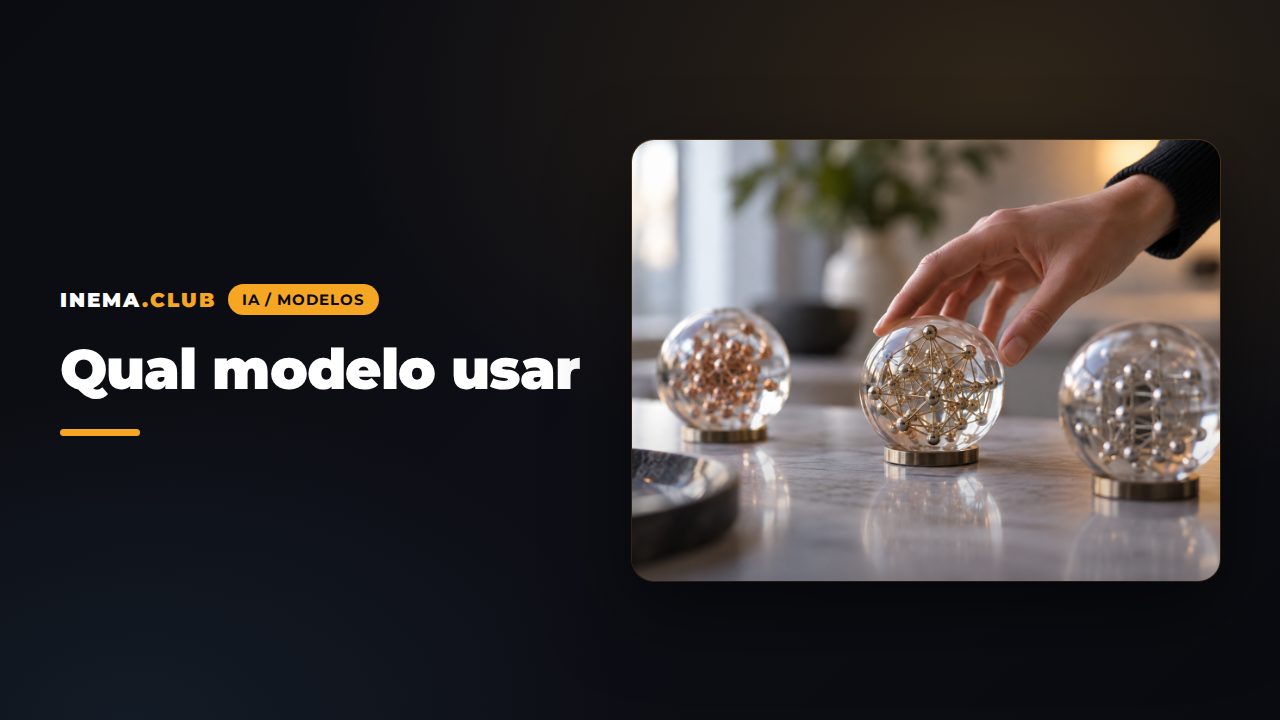
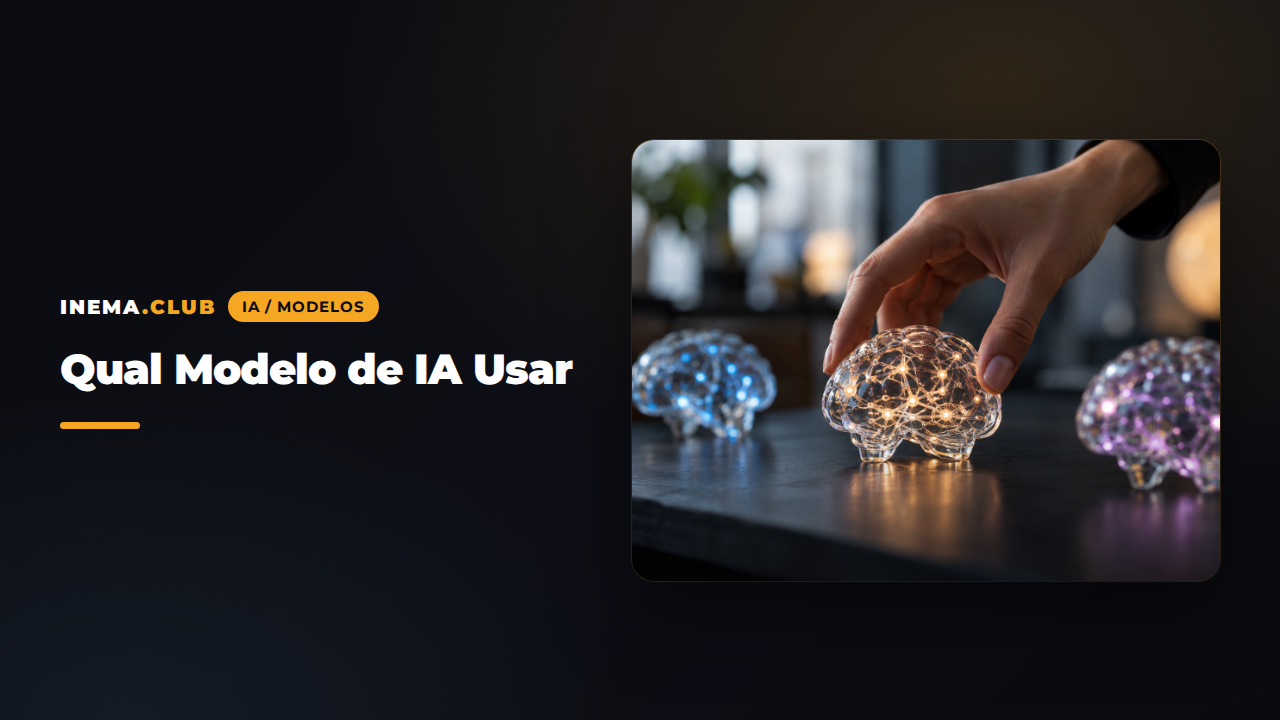
título: Qual Modelo de IA Usar (guia PT/EN/ES, README e capa)

Changed region(s): [[0.0312, 0.1833, 0.9688, 0.825], [0.0312, 0.3972, 0.3125, 0.4583], [0.0312, 0.5806, 0.125, 0.6111]]

diff --git a/guia/es/index.html b/guia/es/index.html
@@ -3,7 +3,7 @@
 <head>
 <meta charset="utf-8">
 <meta name="viewport" content="width=device-width, initial-scale=1">
-<title>modelos — qué modelo de IA usar en cada tarea</title>
+<title>Qué Modelo de IA Usar — el modelo correcto para cada tarea</title>
 <meta name="description" content="Guía directa para elegir entre Claude Opus 5.5, GPT-6 Astra, Sol y Luna: modelos explicados de forma simple, stack por tarea, reglas, prompts y batería de pruebas.">
 <link rel="preconnect" href="https://fonts.googleapis.com">
 <link rel="preconnect" href="https://fonts.gstatic.com" crossorigin>
@@ -122,7 +122,7 @@
 <body>
 
 <nav><div class="wrap">
-  <a class="brand" href="../es/"><span class="emoji">🧭</span> modelos</a>
+  <a class="brand" href="../es/"><span class="emoji">🧭</span> Qué Modelo de IA Usar</a>
   <span class="sep">|</span>
   <span class="clubpro">
     <a class="inema" href="https://inema.club" target="_blank" rel="noopener">INEMA.CLUB</a>
@@ -222,7 +222,7 @@ avaliacao/bateria.md  <span class="c"># 8 casos reales, nota 0–3, cuota gastad
 <footer>
   <div class="wrap">
     <div class="pill">Markdown</div><div class="pill">YAML</div><div class="pill">Claude Code</div><div class="pill">Codex</div>
-    <p style="margin-top:18px">modelos · guía práctica de modelos de IA ·
+    <p style="margin-top:18px">Qué Modelo de IA Usar · guía práctica de modelos de IA ·
       <a href="https://github.com/inematds/modelos">inematds/modelos</a> · <a href="../">Português</a> · <a href="../en/">English</a> ·
       <a href="https://inema.club">INEMA.CLUB</a></p>
   </div>

diff --git a/guia/index.html b/guia/index.html
@@ -3,7 +3,7 @@
 <head>
 <meta charset="utf-8">
 <meta name="viewport" content="width=device-width, initial-scale=1">
-<title>modelos — qual modelo de IA usar em cada tarefa</title>
+<title>Qual Modelo de IA Usar — o modelo certo para cada tarefa</title>
 <meta name="description" content="Guia direto para escolher entre Claude Opus 5.5, GPT-6 Astra, Sol e Luna: modelos explicados de forma simples, pilha por tarefa, regras, prompts e bateria de teste.">
 <link rel="preconnect" href="https://fonts.googleapis.com">
 <link rel="preconnect" href="https://fonts.gstatic.com" crossorigin>
@@ -122,7 +122,7 @@
 <body>
 
 <nav><div class="wrap">
-  <a class="brand" href=""><span class="emoji">🧭</span> modelos</a>
+  <a class="brand" href=""><span class="emoji">🧭</span> Qual Modelo de IA Usar</a>
   <span class="sep">|</span>
   <span class="clubpro">
     <a class="inema" href="https://inema.club" target="_blank" rel="noopener">INEMA.CLUB</a>
@@ -222,7 +222,7 @@ avaliacao/bateria.md  <span class="c"># 8 casos reais, nota 0–3, cota gasta</s
 <footer>
   <div class="wrap">
     <div class="pill">Markdown</div><div class="pill">YAML</div><div class="pill">Claude Code</div><div class="pill">Codex</div>
-    <p style="margin-top:18px">modelos · guia prático de modelos de IA ·
+    <p style="margin-top:18px">Qual Modelo de IA Usar · guia prático de modelos de IA ·
       <a href="https://github.com/inematds/modelos">inematds/modelos</a> · <a href="en/">English</a> · <a href="es/">Español</a> ·
       <a href="https://inema.club">INEMA.CLUB</a></p>
   </div>

diff --git a/guia/en/index.html b/guia/en/index.html
@@ -3,7 +3,7 @@
 <head>
 <meta charset="utf-8">
 <meta name="viewport" content="width=device-width, initial-scale=1">
-<title>modelos — which AI model to use for each task</title>
+<title>Which AI Model to Use — the right model for each task</title>
 <meta name="description" content="A direct guide to choosing among Claude Opus 5.5, GPT-6 Astra, Sol and Luna: models explained simply, stack per task, rules, prompts and a test battery.">
 <link rel="preconnect" href="https://fonts.googleapis.com">
 <link rel="preconnect" href="https://fonts.gstatic.com" crossorigin>
@@ -122,7 +122,7 @@
 <body>
 
 <nav><div class="wrap">
-  <a class="brand" href="../en/"><span class="emoji">🧭</span> modelos</a>
+  <a class="brand" href="../en/"><span class="emoji">🧭</span> Which AI Model to Use</a>
   <span class="sep">|</span>
   <span class="clubpro">
     <a class="inema" href="https://inema.club" target="_blank" rel="noopener">INEMA.CLUB</a>
@@ -222,7 +222,7 @@ avaliacao/bateria.md  <span class="c"># 8 real cases, 0–3 score, quota used</s
 <footer>
   <div class="wrap">
     <div class="pill">Markdown</div><div class="pill">YAML</div><div class="pill">Claude Code</div><div class="pill">Codex</div>
-    <p style="margin-top:18px">modelos · practical guide to AI models ·
+    <p style="margin-top:18px">Which AI Model to Use · practical guide to AI models ·
       <a href="https://github.com/inematds/modelos">inematds/modelos</a> · <a href="../">Português</a> · <a href="../es/">Español</a> ·
       <a href="https://inema.club">INEMA.CLUB</a></p>
   </div>

diff --git a/guia/es/modelos/index.html b/guia/es/modelos/index.html
@@ -122,7 +122,7 @@
 <body>
 
 <nav><div class="wrap">
-  <a class="brand" href="../../es/"><span class="emoji">🧭</span> modelos</a>
+  <a class="brand" href="../../es/"><span class="emoji">🧭</span> Qué Modelo de IA Usar</a>
   <span class="sep">|</span>
   <span class="clubpro">
     <a class="inema" href="https://inema.club" target="_blank" rel="noopener">INEMA.CLUB</a>
@@ -230,7 +230,7 @@
 <footer>
   <div class="wrap">
     <div class="pill">Markdown</div><div class="pill">YAML</div><div class="pill">Claude Code</div><div class="pill">Codex</div>
-    <p style="margin-top:18px">modelos · guía práctica de modelos de IA ·
+    <p style="margin-top:18px">Qué Modelo de IA Usar · guía práctica de modelos de IA ·
       <a href="https://github.com/inematds/modelos">inematds/modelos</a> · <a href="../../">Português</a> · <a href="../../en/">English</a> ·
       <a href="https://inema.club">INEMA.CLUB</a></p>
   </div>

diff --git a/guia/en/modelos/index.html b/guia/en/modelos/index.html
@@ -122,7 +122,7 @@
 <body>
 
 <nav><div class="wrap">
-  <a class="brand" href="../../en/"><span class="emoji">🧭</span> modelos</a>
+  <a class="brand" href="../../en/"><span class="emoji">🧭</span> Which AI Model to Use</a>
   <span class="sep">|</span>
   <span class="clubpro">
     <a class="inema" href="https://inema.club" target="_blank" rel="noopener">INEMA.CLUB</a>
@@ -230,7 +230,7 @@
 <footer>
   <div class="wrap">
     <div class="pill">Markdown</div><div class="pill">YAML</div><div class="pill">Claude Code</div><div class="pill">Codex</div>
-    <p style="margin-top:18px">modelos · practical guide to AI models ·
+    <p style="margin-top:18px">Which AI Model to Use · practical guide to AI models ·
       <a href="https://github.com/inematds/modelos">inematds/modelos</a> · <a href="../../">Português</a> · <a href="../../es/">Español</a> ·
       <a href="https://inema.club">INEMA.CLUB</a></p>
   </div>

diff --git a/guia/modelos/index.html b/guia/modelos/index.html
@@ -122,7 +122,7 @@
 <body>
 
 <nav><div class="wrap">
-  <a class="brand" href="../"><span class="emoji">🧭</span> modelos</a>
+  <a class="brand" href="../"><span class="emoji">🧭</span> Qual Modelo de IA Usar</a>
   <span class="sep">|</span>
   <span class="clubpro">
     <a class="inema" href="https://inema.club" target="_blank" rel="noopener">INEMA.CLUB</a>
@@ -230,7 +230,7 @@
 <footer>
   <div class="wrap">
     <div class="pill">Markdown</div><div class="pill">YAML</div><div class="pill">Claude Code</div><div class="pill">Codex</div>
-    <p style="margin-top:18px">modelos · guia prático de modelos de IA ·
+    <p style="margin-top:18px">Qual Modelo de IA Usar · guia prático de modelos de IA ·
       <a href="https://github.com/inematds/modelos">inematds/modelos</a> · <a href="../en/">English</a> · <a href="../es/">Español</a> ·
       <a href="https://inema.club">INEMA.CLUB</a></p>
   </div>

diff --git a/guia/_src/build.py b/guia/_src/build.py
@@ -13,6 +13,7 @@ REPO = "https://github.com/inematds/modelos"
 BASE = "https://inematds.github.io/modelos/guia/"
 LANGS = ["pt", "en", "es"]
 HTML_LANG = {"pt": "pt-BR", "en": "en", "es": "es"}
+BRAND = {"pt": "Qual Modelo de IA Usar", "en": "Which AI Model to Use", "es": "Qué Modelo de IA Usar"}
 BANNER = {"pt": "banner.jpg", "en": "banner-en.jpg", "es": "banner-es.jpg"}
 
 # ---------------------------------------------------------------- modelos
@@ -122,7 +123,7 @@ MODELOS = [
 # ---------------------------------------------------------------- textos
 T = {
  "pt": {
-  "title": "modelos — qual modelo de IA usar em cada tarefa",
+  "title": "Qual Modelo de IA Usar — o modelo certo para cada tarefa",
   "desc": "Guia direto para escolher entre Claude Opus 5.5, GPT-6 Astra, Sol e Luna: modelos explicados de forma simples, pilha por tarefa, regras, prompts e bateria de teste.",
   "mtitle": "Os modelos de IA novos, explicados de forma simples",
   "mdesc": "Opus 5.5, GPT-6 Astra, Sol, Luna, Fable 5.1, Grok 4.7, Sonnet 5 e Haiku: para que serve cada um, quando usar e quando evitar.",
@@ -190,7 +191,7 @@ T = {
   "m_cta": "Como usar isso no dia a dia →",
  },
  "en": {
-  "title": "modelos — which AI model to use for each task",
+  "title": "Which AI Model to Use — the right model for each task",
   "desc": "A direct guide to choosing among Claude Opus 5.5, GPT-6 Astra, Sol and Luna: models explained simply, stack per task, rules, prompts and a test battery.",
   "mtitle": "The new AI models, explained simply",
   "mdesc": "Opus 5.5, GPT-6 Astra, Sol, Luna, Fable 5.1, Grok 4.7, Sonnet 5 and Haiku: what each one is for, when to use it and when to avoid it.",
@@ -257,7 +258,7 @@ T = {
   "m_cta": "How to use this day to day →",
  },
  "es": {
-  "title": "modelos — qué modelo de IA usar en cada tarea",
+  "title": "Qué Modelo de IA Usar — el modelo correcto para cada tarea",
   "desc": "Guía directa para elegir entre Claude Opus 5.5, GPT-6 Astra, Sol y Luna: modelos explicados de forma simple, stack por tarea, reglas, prompts y batería de pruebas.",
   "mtitle": "Los nuevos modelos de IA, explicados de forma simple",
   "mdesc": "Opus 5.5, GPT-6 Astra, Sol, Luna, Fable 5.1, Grok 4.7, Sonnet 5 y Haiku: para qué sirve cada uno, cuándo usarlo y cuándo evitarlo.",
@@ -353,7 +354,7 @@ def nav(lang, kind, depth):
     return f'''<body>
 
 <nav><div class="wrap">
-  <a class="brand" href="{here}"><span class="emoji">🧭</span> modelos</a>
+  <a class="brand" href="{here}"><span class="emoji">🧭</span> {BRAND[lang]}</a>
   <span class="sep">|</span>
   <span class="clubpro">
     <a class="inema" href="https://inema.club" target="_blank" rel="noopener">INEMA.CLUB</a>
@@ -376,7 +377,7 @@ def footer(lang, depth):
 <footer>
   <div class="wrap">
     <div class="pill">Markdown</div><div class="pill">YAML</div><div class="pill">Claude Code</div><div class="pill">Codex</div>
-    <p style="margin-top:18px">modelos · {t["foot"]} ·
+    <p style="margin-top:18px">{BRAND[lang]} · {t["foot"]} ·
       <a href="{REPO}">inematds/modelos</a> · {langs} ·
       <a href="https://inema.club">INEMA.CLUB</a></p>
   </div>

diff --git a/README.md b/README.md
@@ -1,4 +1,6 @@
-# 🧭 modelos — qual modelo de IA usar em cada tarefa
+# 🧭 Qual Modelo de IA Usar
+
+> O modelo certo para cada tarefa · repositório `modelos`
 
 [![Qual modelo de IA usar](guia/assets/banner.jpg)](https://inematds.github.io/modelos/guia/)
 
